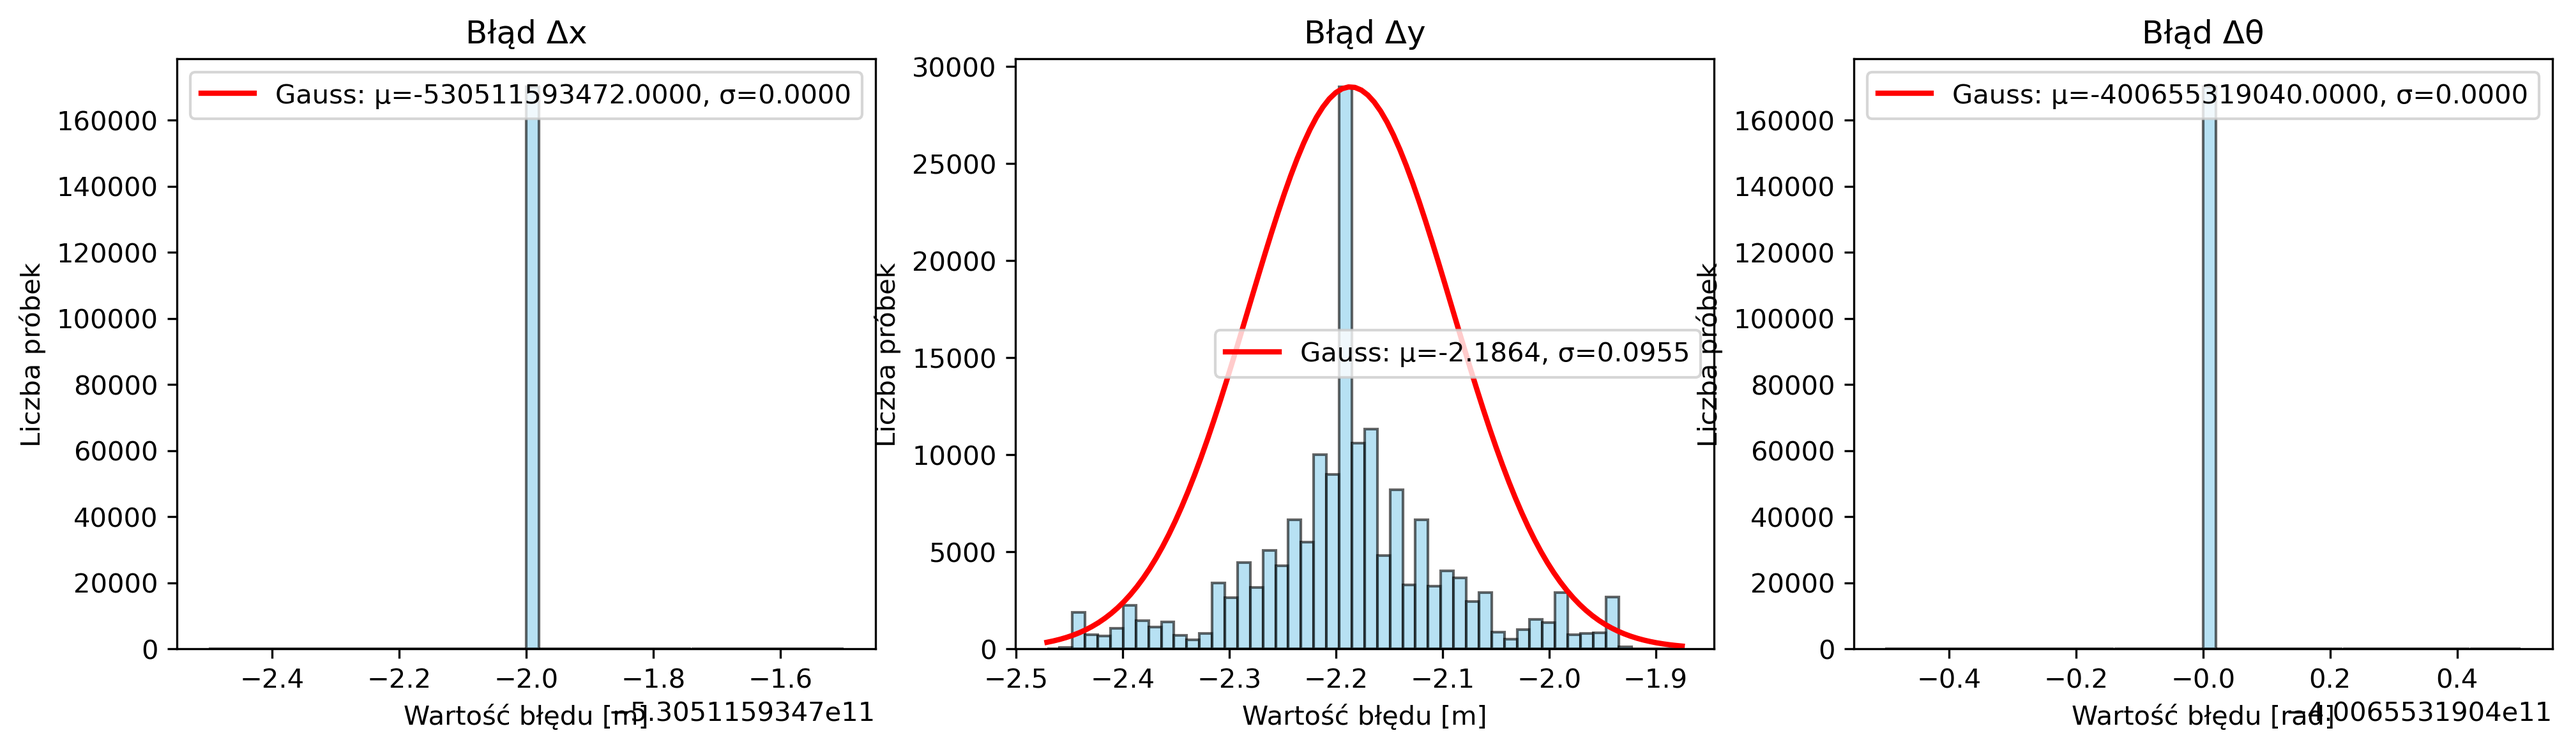
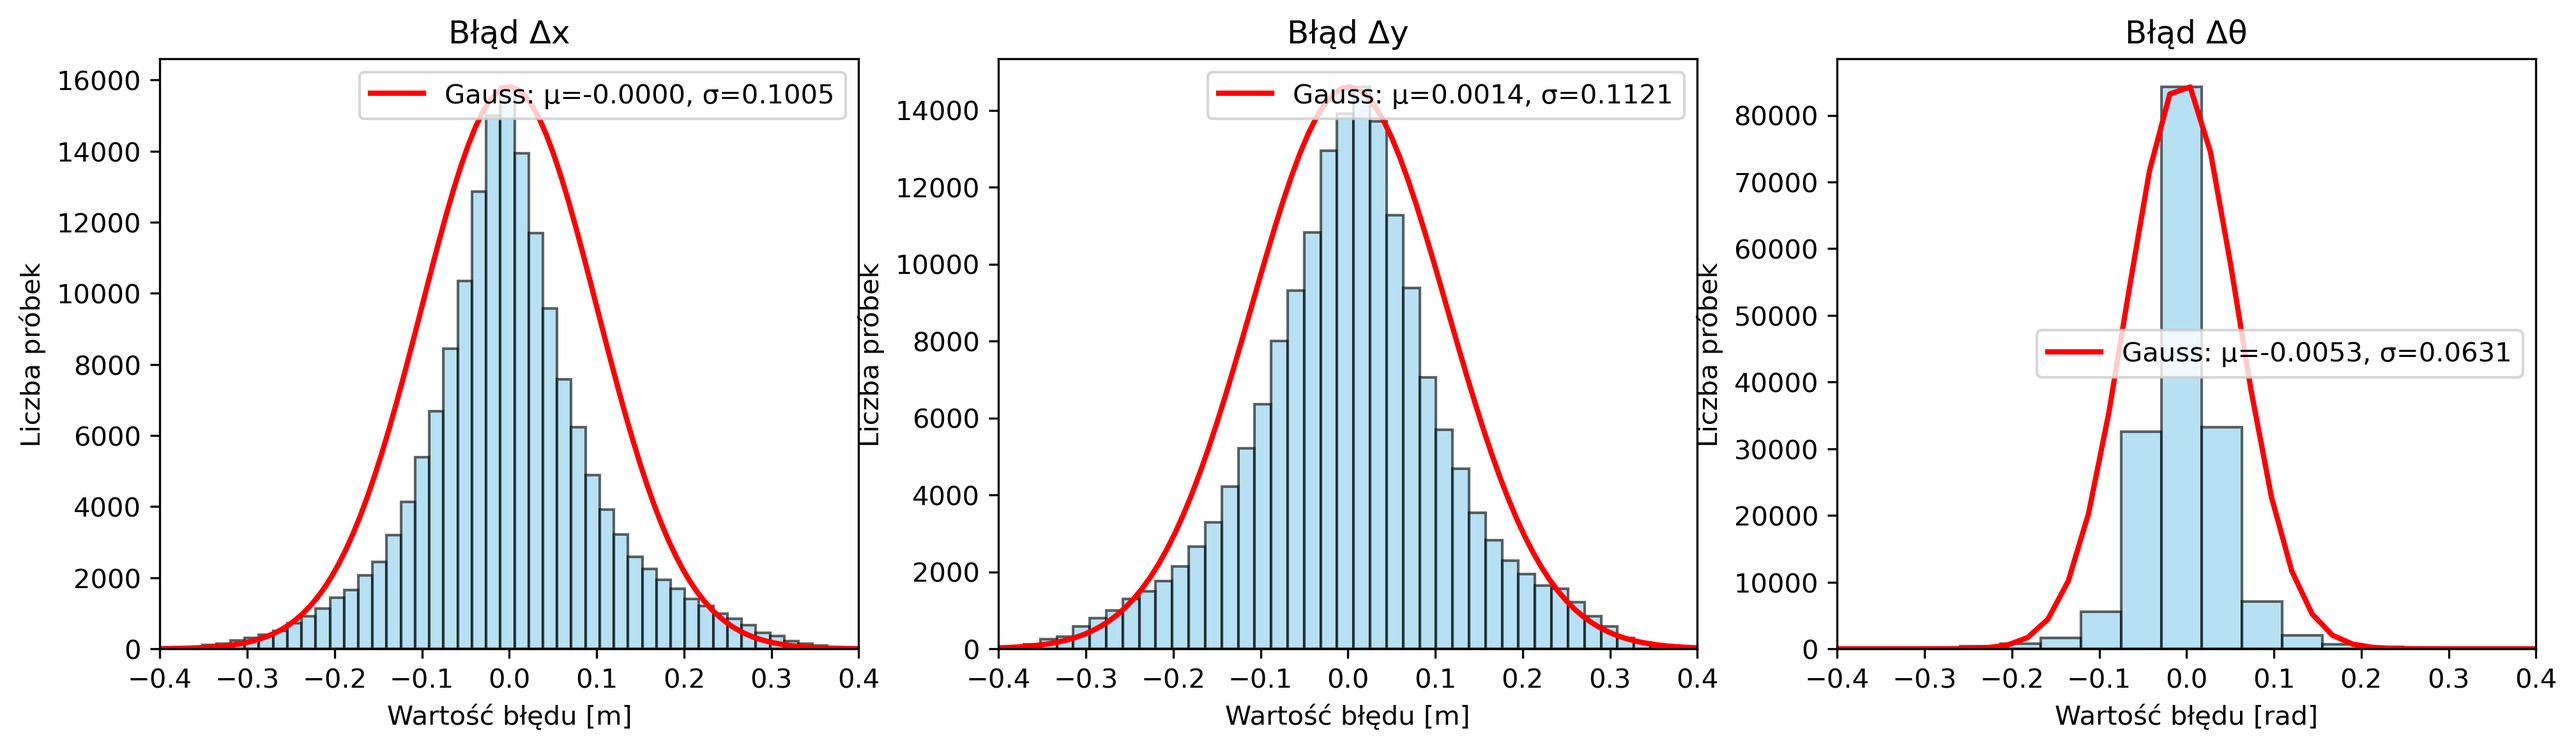
fix tflite

diff --git a/AI/test_network.py b/AI/test_network.py
@@ -20,7 +20,7 @@ import utilities, os
 
 from colorama import Fore, init
 
-def save_figs_mean_std(model_name, y, y_pred, figs_folder_name ,test_file_name, xlim_on=True):
+def save_figs_mean_std(model_name, y, y_pred, figs_folder_name ,test_file_name, xlim_val=0.3):
     errors = y - y_pred
     err_x = errors[:,0]
     err_y = errors[:,1]
@@ -29,18 +29,15 @@ def save_figs_mean_std(model_name, y, y_pred, figs_folder_name ,test_file_name, 
     plt.figure(figsize=(16,4))
     plt.subplot(1,3,1)
     utilities.plot_error_with_gaussian(plt, err_x, "Błąd Δx", "Wartość błędu [m]")
-    if xlim_on:
-        plt.xlim(-0.3,0.3)
+    plt.xlim(-1*xlim_val,xlim_val)
 
     plt.subplot(1,3,2)
     utilities.plot_error_with_gaussian(plt, err_y, "Błąd Δy", "Wartość błędu [m]")
-    if xlim_on:
-        plt.xlim(-0.3,0.3)
+    plt.xlim(-1*xlim_val,xlim_val)
 
     plt.subplot(1,3,3)
     utilities.plot_error_with_gaussian(plt, err_theta, "Błąd Δθ", "Wartość błędu [rad]")
-    if xlim_on:
-        plt.xlim(-0.3,0.3)
+    plt.xlim(-1*xlim_val,xlim_val)
 
     output_file = os.path.expanduser(f"~/ALSAI/{figs_folder_name}/{model_name}.png")
     plt.savefig(output_file, dpi=300, bbox_inches='tight')
@@ -103,11 +100,12 @@ def test_tflite(data, _model_path, model_name):
     for sample in X:
         sample = np.expand_dims(sample, axis=0).astype(np.float32)
         interpreter.set_tensor(input_details[0]['index'], sample)
+        interpreter.invoke()
         output = interpreter.get_tensor(output_details[0]['index'])
         y_pred.append(output[0])
     y_pred = np.array(y_pred)
 
-    save_figs_mean_std(model_name, y, y_pred, "tflite_figs", "tflite_tests", False)
+    save_figs_mean_std(model_name, y, y_pred, "tflite_figs", "tflite_tests", 0.4)
 
 
 def test_on_rosbag(rosbag_path, model_path):
